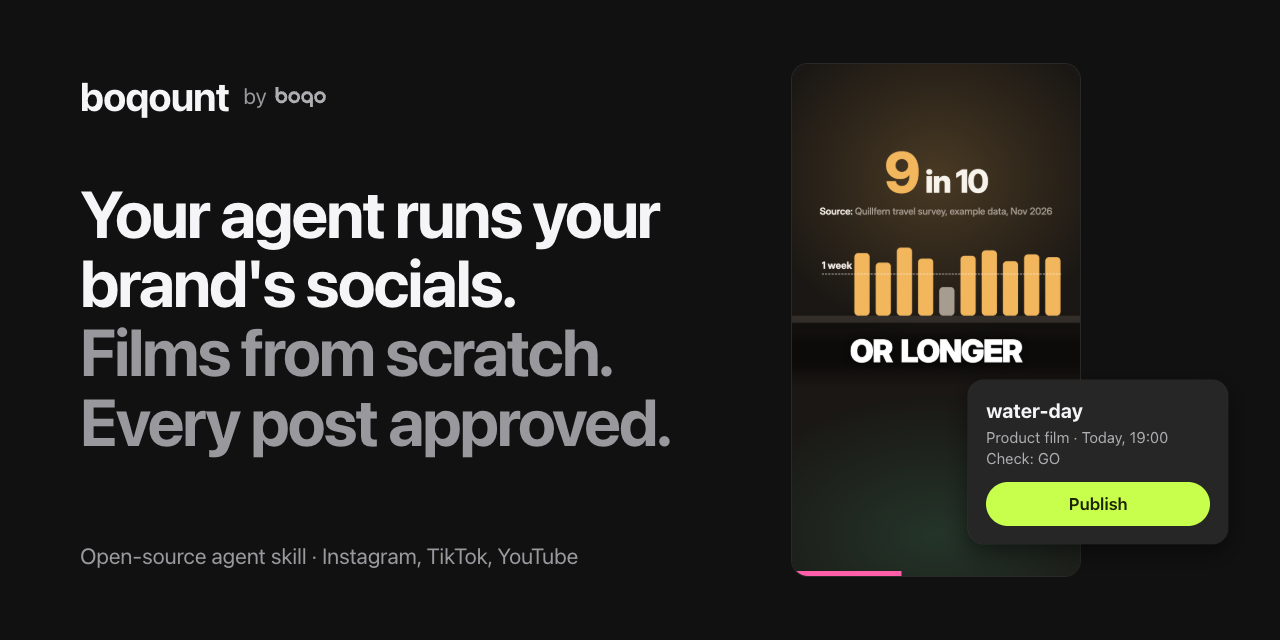
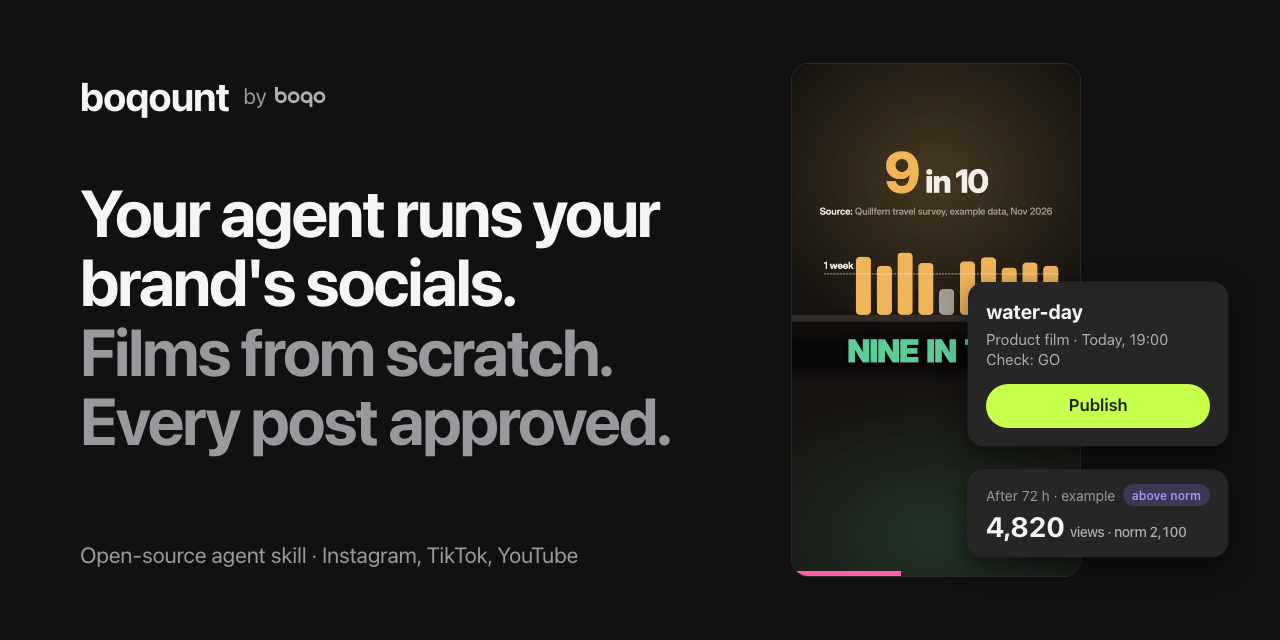
The demo opens on the whole cycle at once and ends on the measurement: a post read at 72 hours against its norm and its target, and the week replanned from it; the preview shows the reading too

diff --git a/README.md b/README.md
@@ -1,5 +1,5 @@
 <p align="center">
-  <img src=".github/media/demo.gif" width="400" alt="boqount in fifteen seconds: paste one line, the agent reads your project, makes a film from scratch, and you approve the post">
+  <img src=".github/media/demo.gif" width="400" alt="boqount in twenty seconds: paste one line, the agent reads your project, makes a film from scratch, you approve the post, and it measures the post and plans the next ones from it">
 </p>
 
 <h1 align="center">boqount</h1>
@@ -8,7 +8,7 @@
 It reads your project, makes films from scratch in your style, checks every post, asks you before anything goes
 out, and measures what worked.</p>
 
-<p align="center"><sub>The film in the demo is the example the skill ships, made for an invented plant app.</sub></p>
+<p align="center"><sub>The film in the demo is the example the skill ships, made for an invented plant app; its numbers are an example too.</sub></p>
 
 ## Start in three steps
 
